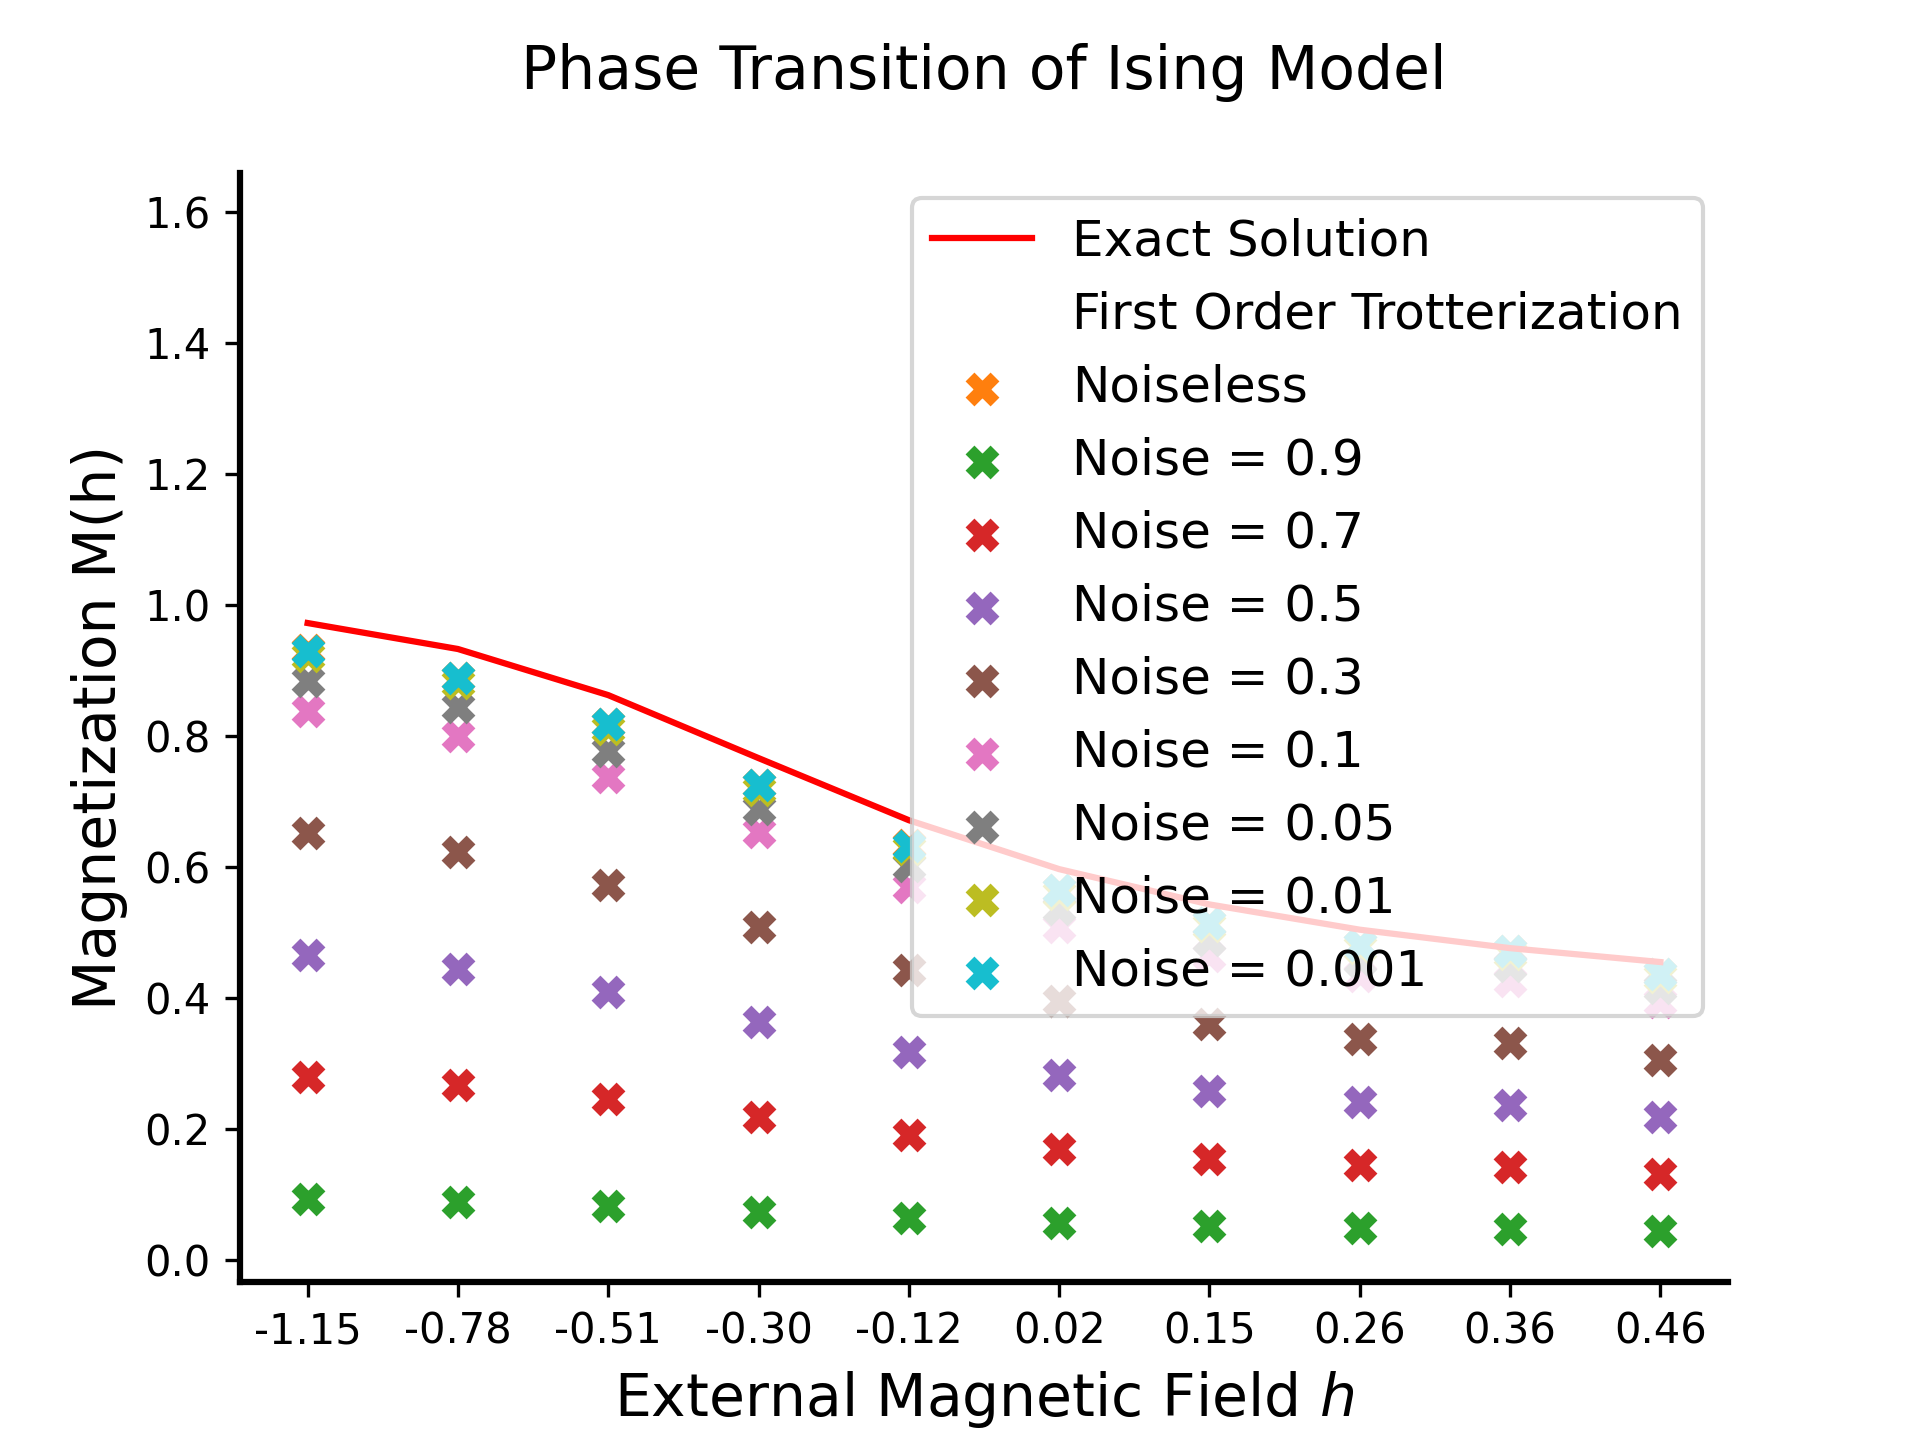
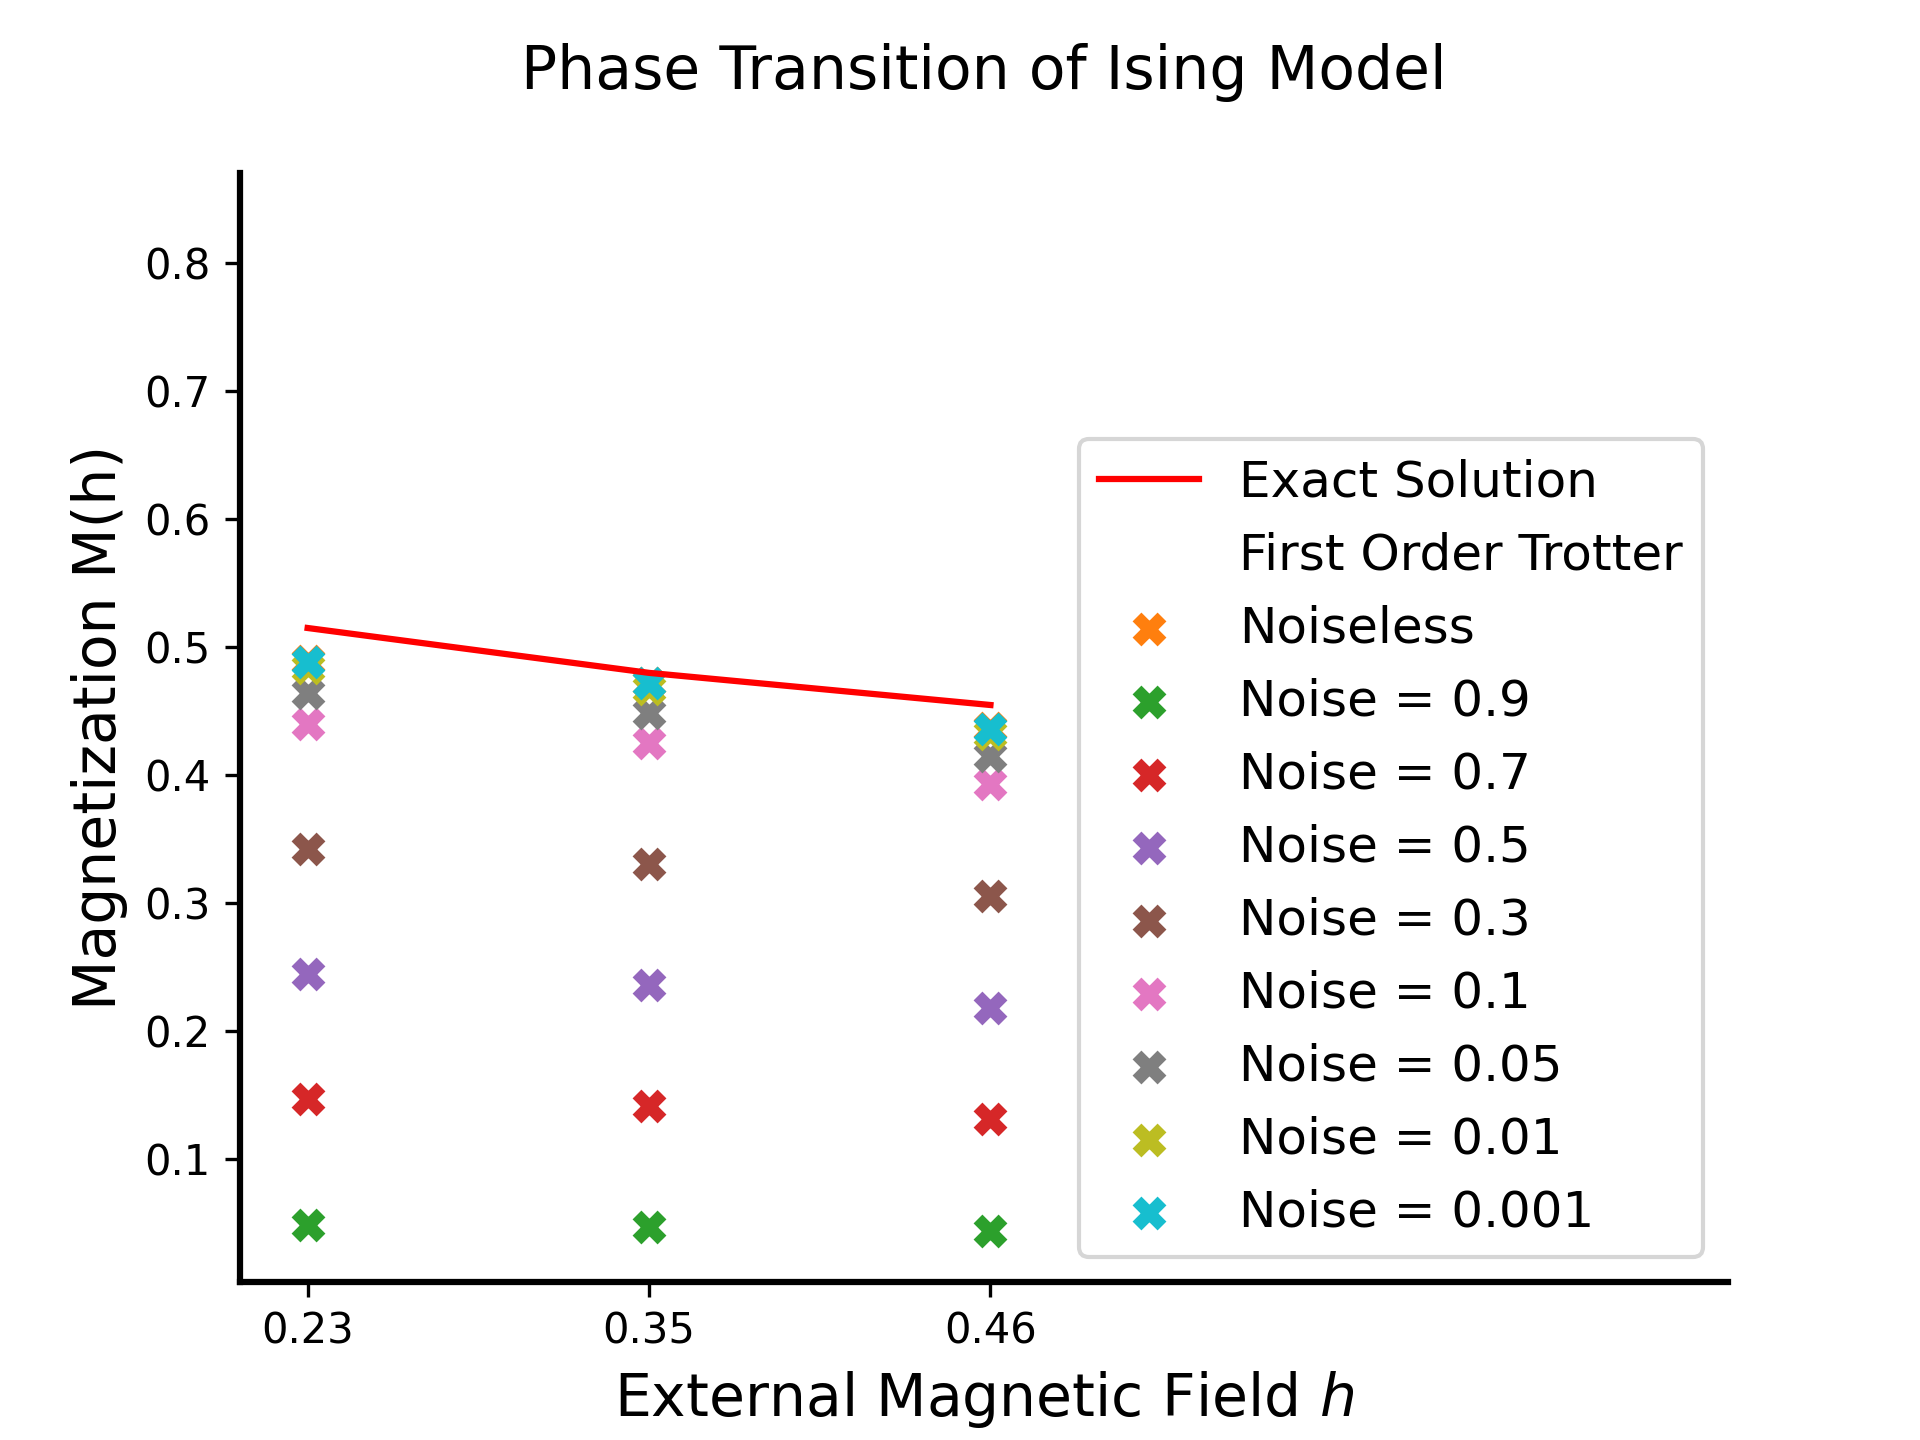
Combined plot

diff --git a/ising/plotter/groundstate/magnetization_noise.py b/ising/plotter/groundstate/magnetization_noise.py
@@ -17,7 +17,7 @@ Result: TypeAlias = dict[float, dict[float, float]]
 METHOD_NAMES = {
     "analytical": "Exact Solution",
     "taylor": "Truncated Taylor Series",
-    "grouped_lie": "First Order Trotterization",
+    "grouped_lie": "First Order Trotter",
     "gs_qdrift": "qDRIFT Protocol",
     "exact": "Precise Unitaries",
     "taylor_sample": "Truncated Taylor Series Samples",
